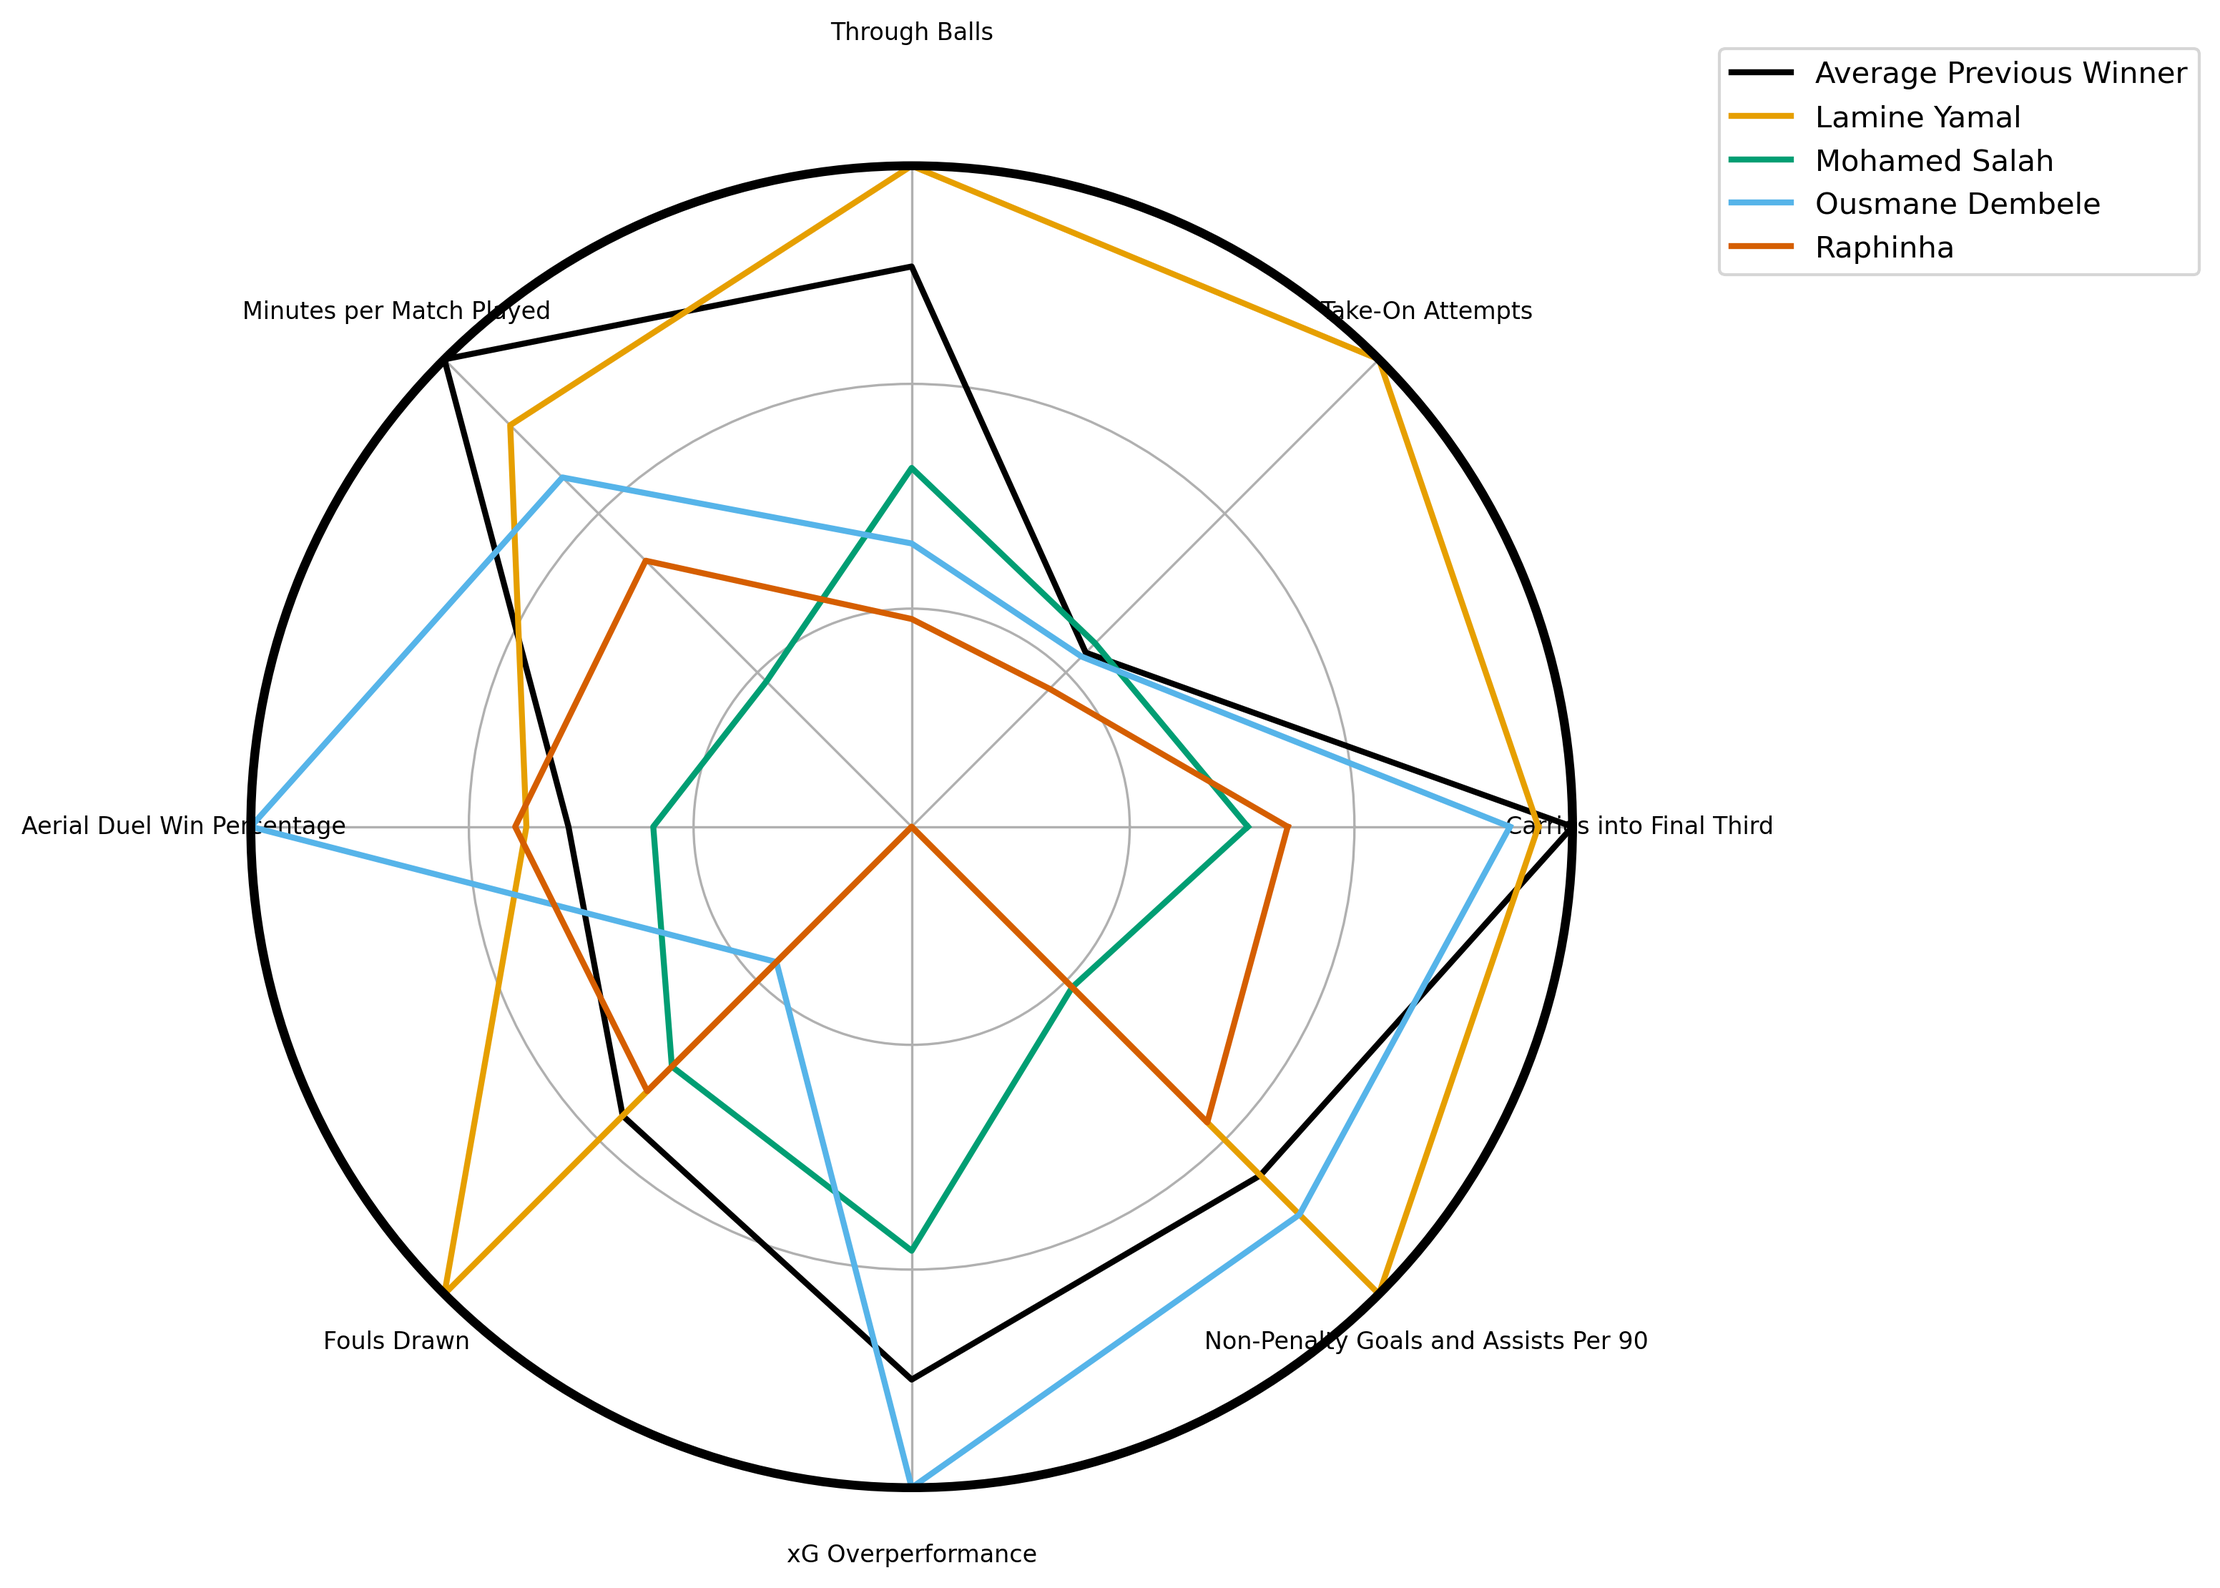
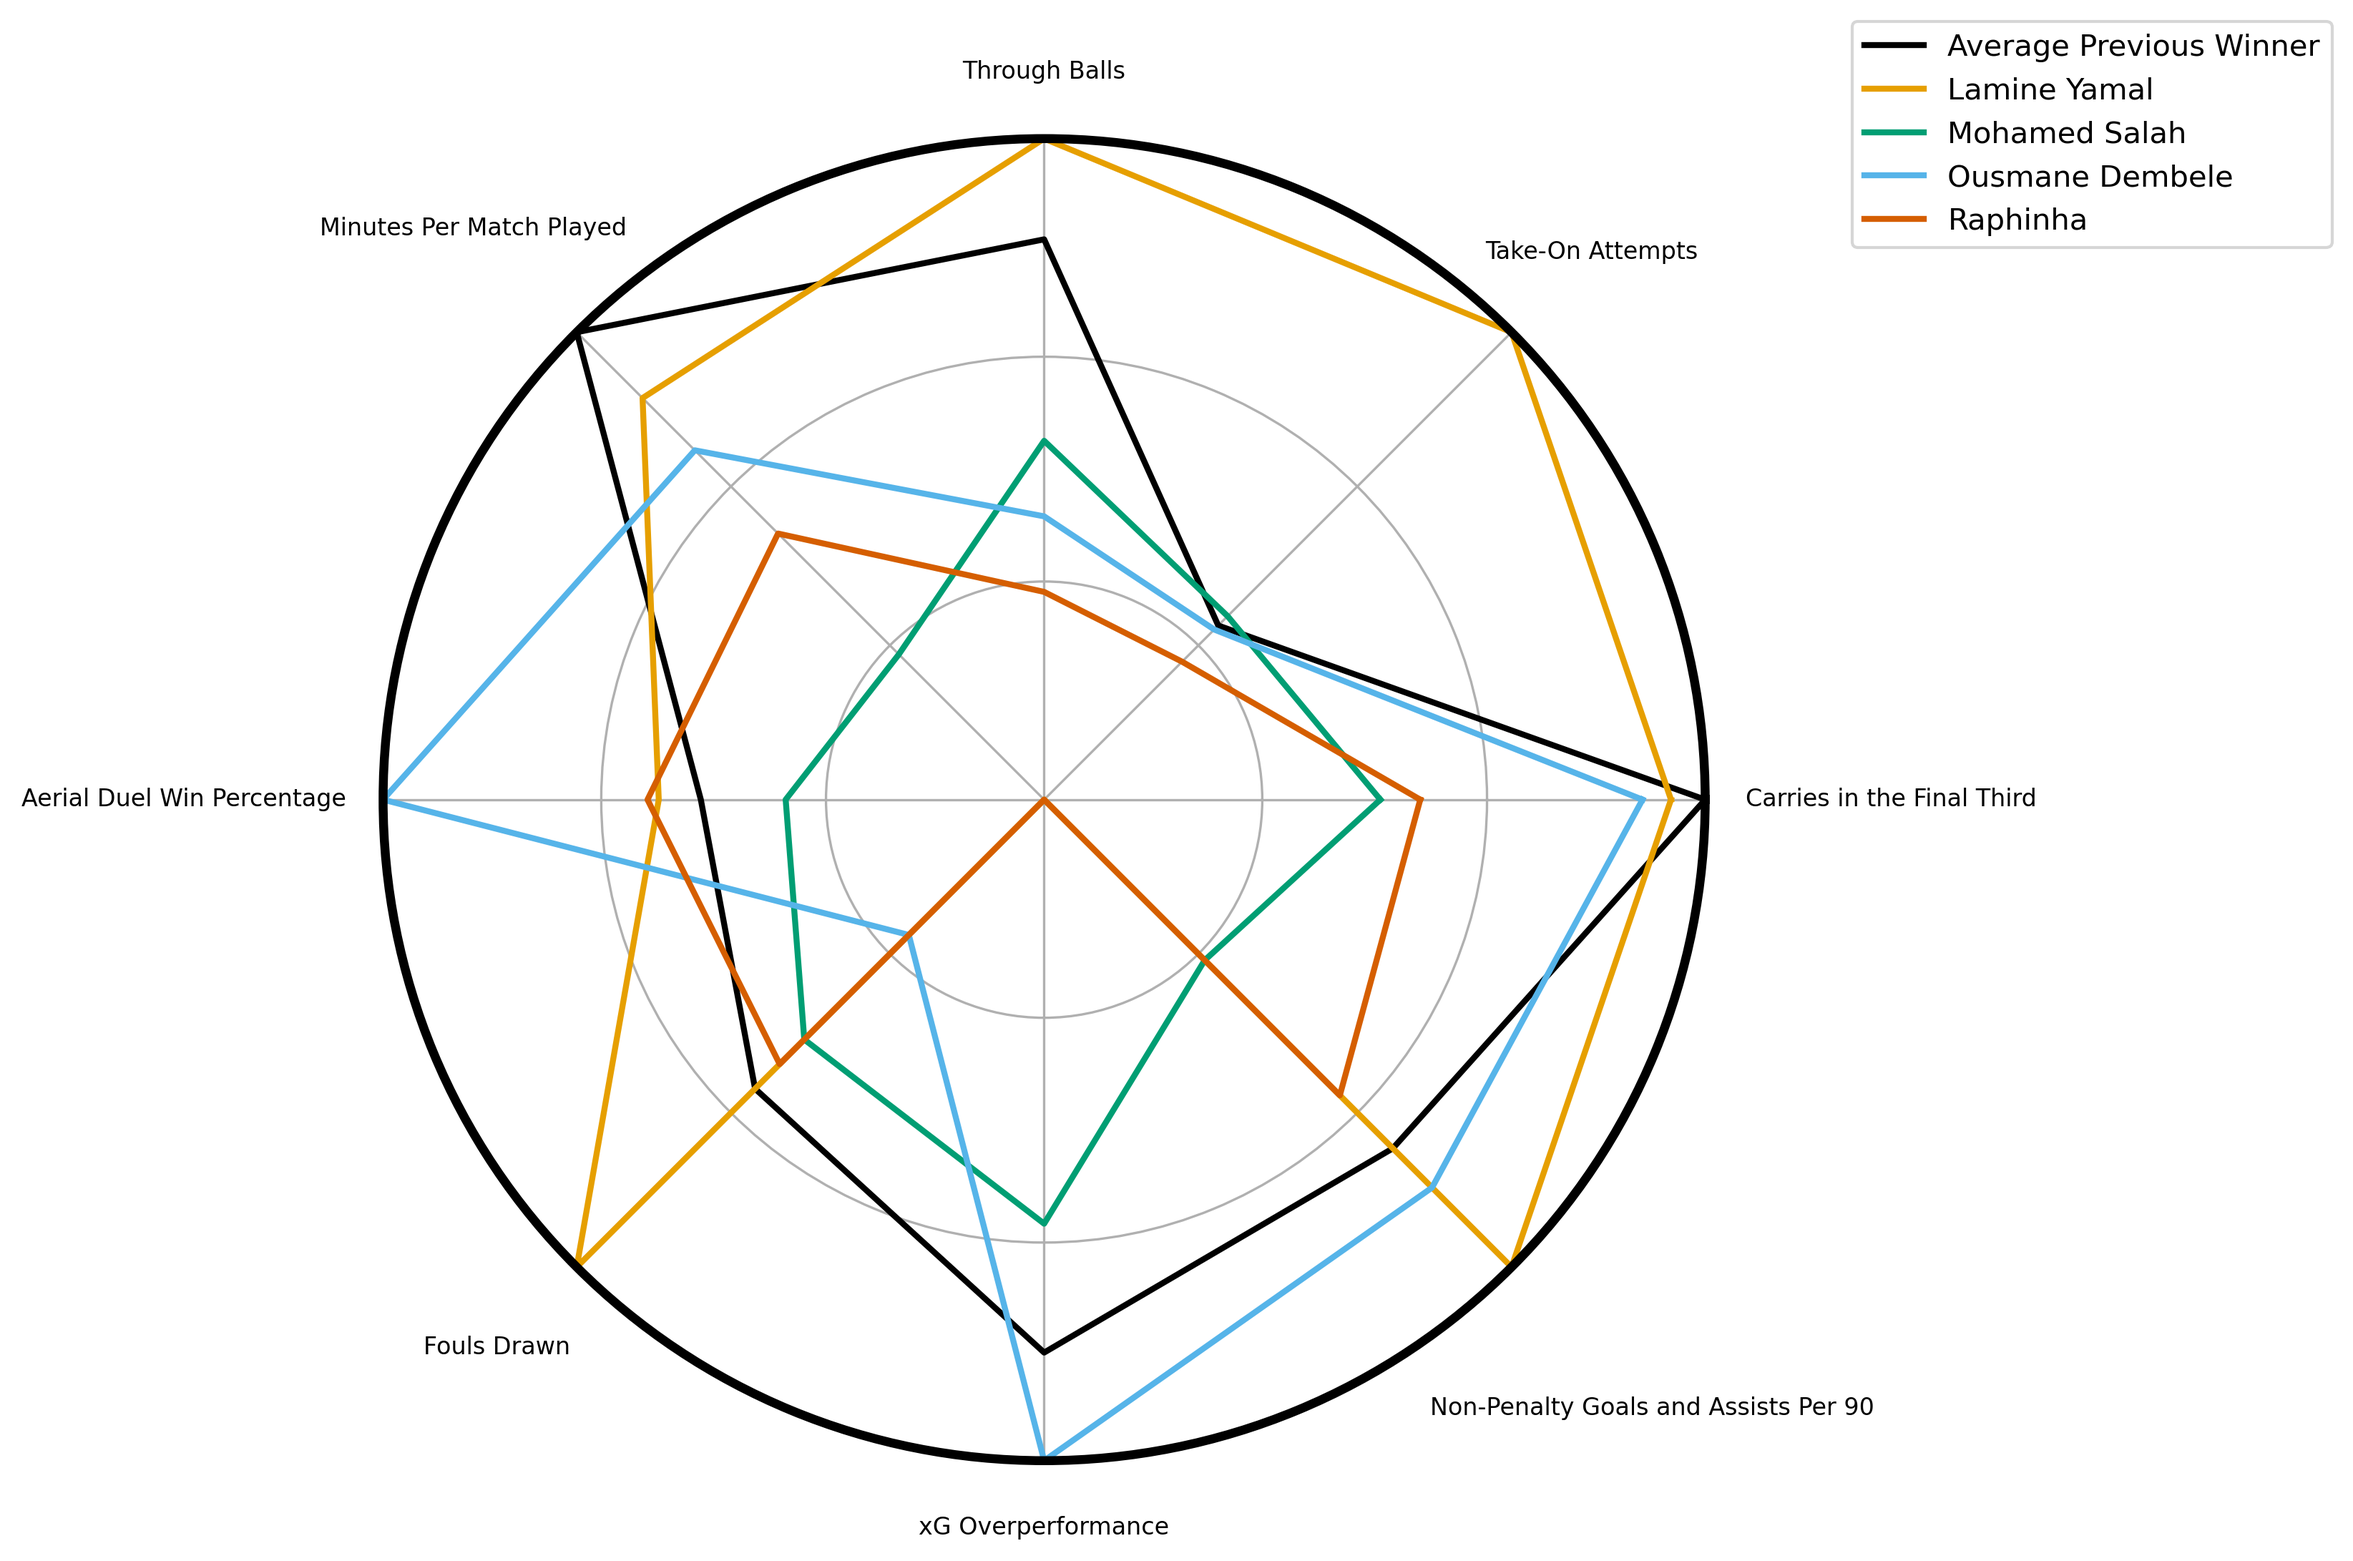
adjusted spider chart spacing

diff --git a/analysis/retrospective/past_profiles.py b/analysis/retrospective/past_profiles.py
@@ -5,10 +5,10 @@ import numpy as np
 data = pd.read_csv('data/nominees_outfield.csv')
 
 data = data.rename(columns={
-    'Carries 1/3': 'Carries into Final Third', 
+    'Carries 1/3': 'Carries in the Final Third', 
     'Take-Ons Att': 'Take-On Attempts',
     'Pass Types TB': 'Through Balls',
-    'Playing Time Mn/MP': 'Minutes per Match Played',
+    'Playing Time Mn/MP': 'Minutes Per Match Played',
     'Aerial Duels Won%': 'Aerial Duel Win Percentage', 
     'Performance Fld': 'Fouls Drawn',
     'Expected Np:G-xG': 'xG Overperformance',
@@ -16,10 +16,10 @@ data = data.rename(columns={
 })
 
 stat_cols = [
-    'Carries into Final Third', 
+    'Carries in the Final Third', 
     'Take-On Attempts',
     'Through Balls',
-    'Minutes per Match Played',
+    'Minutes Per Match Played',
     'Aerial Duel Win Percentage', 
     'Fouls Drawn',
     'xG Overperformance',
@@ -87,12 +87,14 @@ ax.set_yticks([0.33,0.67])
 ax.set_yticklabels([])
 
 for i, label in enumerate(ax.get_xticklabels()):
-    if stat_cols[i] == 'Team xG Differential When On vs. Off Field':
+    if stat_cols[i] in ['Aerial Duel Win Percentage','Non-Penalty Goals and Assists Per 90']:
+        label.set_y(label.get_position()[1] - 0.2)
+    elif stat_cols[i] == 'Carries in the Final Third':
         label.set_y(label.get_position()[1] - 0.18)
-    elif stat_cols[i] in ['Shot Creation Actions via Take-Ons','Expected Assists Per 90']:
-        label.set_y(label.get_position()[1] - 0.15)
-    if stat_cols[i] in ['Take On Attempts','Carries in Final Third','Through Balls']:
-        label.set_y(label.get_position()[1] - 0.1)
+    elif stat_cols[i] == 'Minutes Per Match Played':
+        label.set_y(label.get_position()[1] - 0.12)
+    elif stat_cols[i] in ['Fouls Drawn','Take-On Attempts']:
+        label.set_y(label.get_position()[1] - 0.07)
 
 ax.legend(loc='upper left', bbox_to_anchor=(1.1, 1.1), frameon=True)
 
